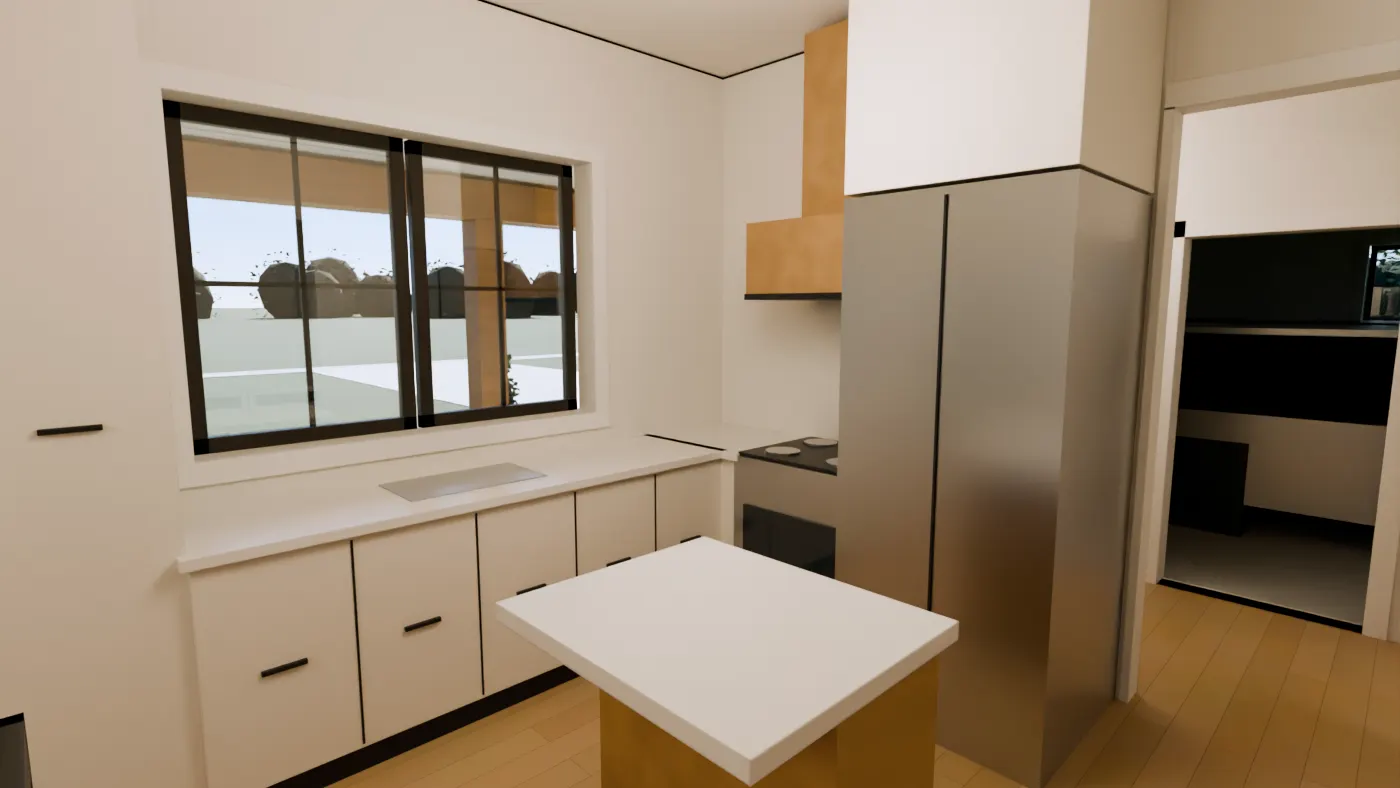
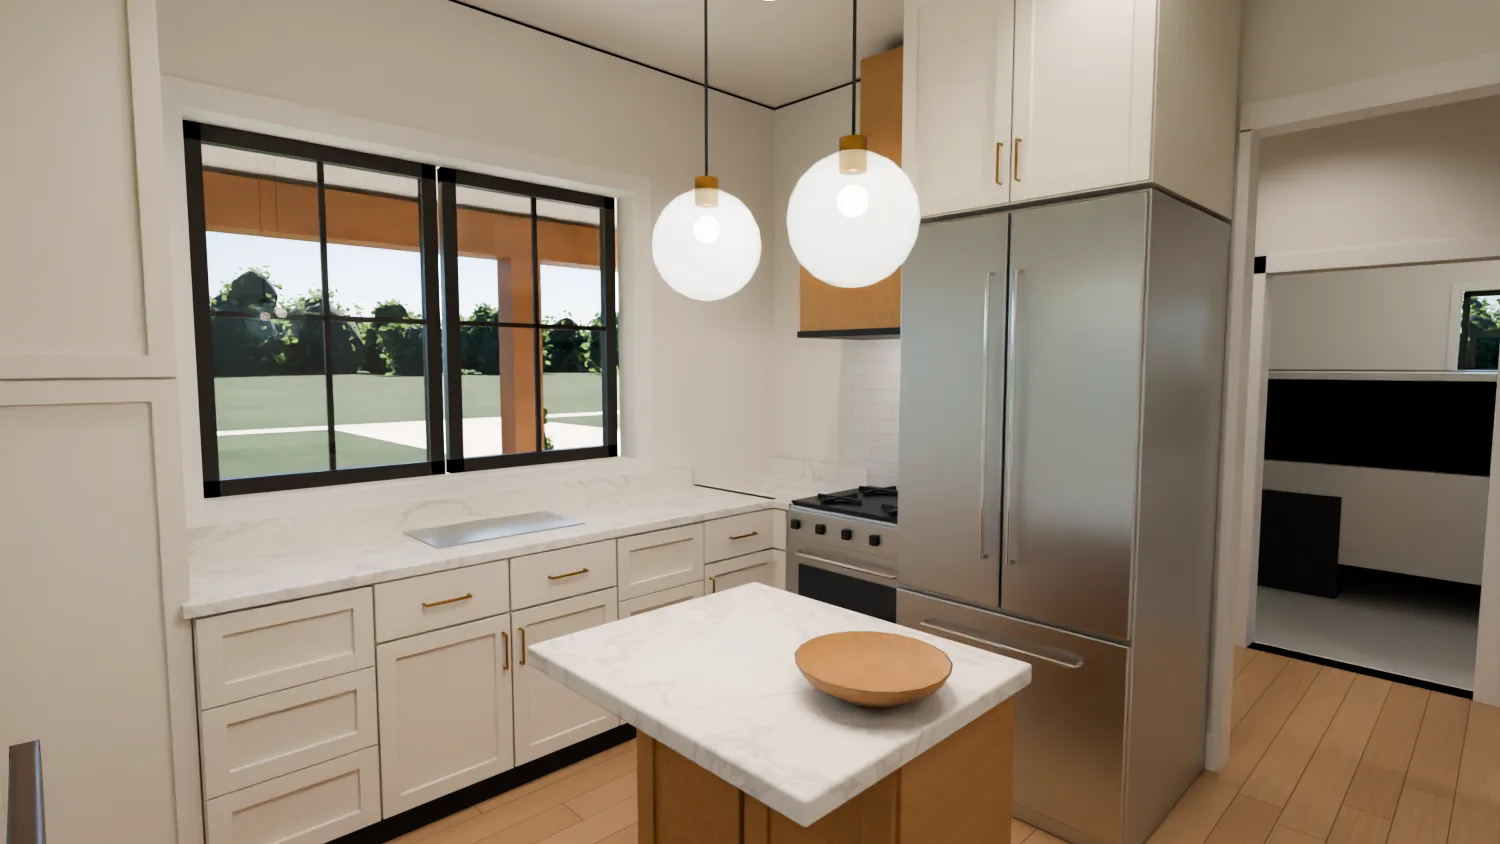
Farmhouse interiors re-rendered with far more detail; dining room, bedroom and bath added
The great room, kitchen and the in-law suite's living room and kitchen are new renderings
of the detailed 3D scenes (rounded and upholstered furniture, shaker cabinets with pulls,
veined stone tops, plank floors with grain, pendants and downlights, trees and lawn outside
the windows). The dining room, primary bedroom and primary bath are new pictures in the
Farmhouse look. The buying page shows them and opens the matching room in 3D.

Claude-Session: https://claude.ai/code/session_01LcUu1yMTHs7qUW5E51HSvp

diff --git a/index.html b/index.html
@@ -327,7 +327,7 @@
 (function () {
   'use strict';
   var VIEWER = 'walkthrough/', SETS = 'plans/';
-  var HAVE = /*HAVE*/{"big_brick":1,"big_country":1,"big_craft":1,"big_farm":1,"big_trans":1,"fp_big2_bsmt_f":1,"fp_big2_bsmt_u":1,"fp_big2_look":1,"fp_big2_main_f":1,"fp_big2_main_s":1,"fp_big2_main_su":1,"fp_big2_upper":1,"fp_big_bsmt_f":1,"fp_big_bsmt_u":1,"fp_big_look":1,"fp_big_main_f":1,"fp_big_main_s":1,"fp_big_main_su":1,"fp_big_upper":1,"fp_half2_bsmt_f":1,"fp_half2_bsmt_u":1,"fp_half2_look":1,"fp_half2_main_f":1,"fp_half2_main_s":1,"fp_half2_main_su":1,"fp_half2_upper":1,"fp_half2_upper_lk0":1,"fp_half_bsmt_f":1,"fp_half_bsmt_u":1,"fp_half_look":1,"fp_half_main_f":1,"fp_half_main_s":1,"fp_half_main_su":1,"fp_half_upper":1,"fp_half_upper_lk0":1,"fp_p14_bsmt_f":1,"fp_p14_bsmt_u":1,"fp_p14_look":1,"fp_p14_main_f":1,"fp_p14_main_s":1,"fp_p14_main_su":1,"fp_p14_upper":1,"fp_p18_bsmt_f":1,"fp_p18_bsmt_u":1,"fp_p18_look":1,"fp_p18_main_f":1,"fp_p18_main_s":1,"fp_p18_main_su":1,"fp_p18_upper":1,"fp_ranch2_bsmt_f":1,"fp_ranch2_bsmt_u":1,"fp_ranch2_look":1,"fp_ranch2_main_f":1,"fp_ranch2_main_f_lk0":1,"fp_ranch2_main_s":1,"fp_ranch2_main_s_lk0":1,"fp_ranch2_main_su":1,"fp_ranch2_main_su_lk0":1,"fp_ranch_bsmt_f":1,"fp_ranch_bsmt_u":1,"fp_ranch_look":1,"fp_ranch_main_f":1,"fp_ranch_main_f_lk0":1,"fp_ranch_main_s":1,"fp_ranch_main_s_lk0":1,"fp_ranch_main_su":1,"fp_ranch_main_su_lk0":1,"fp_small2_bsmt_f":1,"fp_small2_bsmt_u":1,"fp_small2_look":1,"fp_small2_main_f":1,"fp_small2_main_s":1,"fp_small2_main_su":1,"fp_small2_upper":1,"fp_small2_upper_lk0":1,"fp_small_bsmt_f":1,"fp_small_bsmt_u":1,"fp_small_look":1,"fp_small_main_f":1,"fp_small_main_s":1,"fp_small_main_su":1,"fp_small_upper":1,"fp_small_upper_lk0":1,"half_brick":1,"half_country":1,"half_craft":1,"half_farm":1,"half_trans":1,"hero_farm":1,"in_brick_great":1,"in_brick_kit":1,"in_country_great":1,"in_country_kit":1,"in_craft_great":1,"in_craft_kit":1,"in_farm_great":1,"in_farm_kit":1,"in_trans_great":1,"in_trans_kit":1,"opt_big_gs_brick":1,"opt_big_gs_country":1,"opt_big_gs_craft":1,"opt_big_gs_farm":1,"opt_big_gs_trans":1,"opt_big_lk0_brick":1,"opt_big_lk0_country":1,"opt_big_lk0_craft":1,"opt_big_lk0_farm":1,"opt_big_lk0_trans":1,"opt_half_gs_brick":1,"opt_half_gs_country":1,"opt_half_gs_craft":1,"opt_half_gs_farm":1,"opt_half_gs_trans":1,"opt_half_lk0_brick":1,"opt_half_lk0_country":1,"opt_half_lk0_craft":1,"opt_half_lk0_farm":1,"opt_half_lk0_trans":1,"opt_p14_gs_brick":1,"opt_p14_gs_country":1,"opt_p14_gs_craft":1,"opt_p14_gs_farm":1,"opt_p14_gs_trans":1,"opt_p14_lk0_brick":1,"opt_p14_lk0_country":1,"opt_p14_lk0_craft":1,"opt_p14_lk0_farm":1,"opt_p14_lk0_trans":1,"opt_p18_gs_brick":1,"opt_p18_gs_country":1,"opt_p18_gs_craft":1,"opt_p18_gs_farm":1,"opt_p18_gs_trans":1,"opt_p18_lk0_brick":1,"opt_p18_lk0_country":1,"opt_p18_lk0_craft":1,"opt_p18_lk0_farm":1,"opt_p18_lk0_trans":1,"opt_ranch_gs_brick":1,"opt_ranch_gs_country":1,"opt_ranch_gs_craft":1,"opt_ranch_gs_farm":1,"opt_ranch_gs_trans":1,"opt_ranch_lk0_brick":1,"opt_ranch_lk0_country":1,"opt_ranch_lk0_craft":1,"opt_ranch_lk0_farm":1,"opt_ranch_lk0_trans":1,"opt_small_gs_brick":1,"opt_small_gs_country":1,"opt_small_gs_craft":1,"opt_small_gs_farm":1,"opt_small_gs_trans":1,"opt_small_lk0_brick":1,"opt_small_lk0_country":1,"opt_small_lk0_craft":1,"opt_small_lk0_farm":1,"opt_small_lk0_trans":1,"p14_brick":1,"p14_country":1,"p14_craft":1,"p14_farm":1,"p14_trans":1,"p18_brick":1,"p18_country":1,"p18_craft":1,"p18_farm":1,"p18_trans":1,"pair_big_brick":1,"pair_big_country":1,"pair_big_craft":1,"pair_big_farm":1,"pair_big_trans":1,"pair_half_brick":1,"pair_half_country":1,"pair_half_craft":1,"pair_half_farm":1,"pair_half_trans":1,"pair_p14_brick":1,"pair_p14_country":1,"pair_p14_craft":1,"pair_p14_farm":1,"pair_p14_trans":1,"pair_p18_brick":1,"pair_p18_country":1,"pair_p18_craft":1,"pair_p18_farm":1,"pair_p18_trans":1,"pair_ranch_brick":1,"pair_ranch_country":1,"pair_ranch_craft":1,"pair_ranch_farm":1,"pair_ranch_trans":1,"pair_small_brick":1,"pair_small_country":1,"pair_small_craft":1,"pair_small_farm":1,"pair_small_trans":1,"ranch_brick":1,"ranch_country":1,"ranch_craft":1,"ranch_farm":1,"ranch_trans":1,"small_brick":1,"small_country":1,"small_craft":1,"small_farm":1,"small_trans":1,"suite_bed":1,"suite_brick":1,"suite_country":1,"suite_craft":1,"suite_farm":1,"suite_kit":1,"suite_live":1,"suite_trans":1}/*END*/;                 // the renderings that ship with this version of the page
+  var HAVE = /*HAVE*/{"big_brick":1,"big_country":1,"big_craft":1,"big_farm":1,"big_trans":1,"fp_big2_bsmt_f":1,"fp_big2_bsmt_u":1,"fp_big2_look":1,"fp_big2_main_f":1,"fp_big2_main_s":1,"fp_big2_main_su":1,"fp_big2_upper":1,"fp_big_bsmt_f":1,"fp_big_bsmt_u":1,"fp_big_look":1,"fp_big_main_f":1,"fp_big_main_s":1,"fp_big_main_su":1,"fp_big_upper":1,"fp_half2_bsmt_f":1,"fp_half2_bsmt_u":1,"fp_half2_look":1,"fp_half2_main_f":1,"fp_half2_main_s":1,"fp_half2_main_su":1,"fp_half2_upper":1,"fp_half2_upper_lk0":1,"fp_half_bsmt_f":1,"fp_half_bsmt_u":1,"fp_half_look":1,"fp_half_main_f":1,"fp_half_main_s":1,"fp_half_main_su":1,"fp_half_upper":1,"fp_half_upper_lk0":1,"fp_p14_bsmt_f":1,"fp_p14_bsmt_u":1,"fp_p14_look":1,"fp_p14_main_f":1,"fp_p14_main_s":1,"fp_p14_main_su":1,"fp_p14_upper":1,"fp_p18_bsmt_f":1,"fp_p18_bsmt_u":1,"fp_p18_look":1,"fp_p18_main_f":1,"fp_p18_main_s":1,"fp_p18_main_su":1,"fp_p18_upper":1,"fp_ranch2_bsmt_f":1,"fp_ranch2_bsmt_u":1,"fp_ranch2_look":1,"fp_ranch2_main_f":1,"fp_ranch2_main_f_lk0":1,"fp_ranch2_main_s":1,"fp_ranch2_main_s_lk0":1,"fp_ranch2_main_su":1,"fp_ranch2_main_su_lk0":1,"fp_ranch_bsmt_f":1,"fp_ranch_bsmt_u":1,"fp_ranch_look":1,"fp_ranch_main_f":1,"fp_ranch_main_f_lk0":1,"fp_ranch_main_s":1,"fp_ranch_main_s_lk0":1,"fp_ranch_main_su":1,"fp_ranch_main_su_lk0":1,"fp_small2_bsmt_f":1,"fp_small2_bsmt_u":1,"fp_small2_look":1,"fp_small2_main_f":1,"fp_small2_main_s":1,"fp_small2_main_su":1,"fp_small2_upper":1,"fp_small2_upper_lk0":1,"fp_small_bsmt_f":1,"fp_small_bsmt_u":1,"fp_small_look":1,"fp_small_main_f":1,"fp_small_main_s":1,"fp_small_main_su":1,"fp_small_upper":1,"fp_small_upper_lk0":1,"half_brick":1,"half_country":1,"half_craft":1,"half_farm":1,"half_trans":1,"hero_farm":1,"in_brick_great":1,"in_brick_kit":1,"in_country_great":1,"in_country_kit":1,"in_craft_great":1,"in_craft_kit":1,"in_farm_bath":1,"in_farm_bed":1,"in_farm_dine":1,"in_farm_great":1,"in_farm_kit":1,"in_trans_great":1,"in_trans_kit":1,"opt_big_gs_brick":1,"opt_big_gs_country":1,"opt_big_gs_craft":1,"opt_big_gs_farm":1,"opt_big_gs_trans":1,"opt_big_lk0_brick":1,"opt_big_lk0_country":1,"opt_big_lk0_craft":1,"opt_big_lk0_farm":1,"opt_big_lk0_trans":1,"opt_half_gs_brick":1,"opt_half_gs_country":1,"opt_half_gs_craft":1,"opt_half_gs_farm":1,"opt_half_gs_trans":1,"opt_half_lk0_brick":1,"opt_half_lk0_country":1,"opt_half_lk0_craft":1,"opt_half_lk0_farm":1,"opt_half_lk0_trans":1,"opt_p14_gs_brick":1,"opt_p14_gs_country":1,"opt_p14_gs_craft":1,"opt_p14_gs_farm":1,"opt_p14_gs_trans":1,"opt_p14_lk0_brick":1,"opt_p14_lk0_country":1,"opt_p14_lk0_craft":1,"opt_p14_lk0_farm":1,"opt_p14_lk0_trans":1,"opt_p18_gs_brick":1,"opt_p18_gs_country":1,"opt_p18_gs_craft":1,"opt_p18_gs_farm":1,"opt_p18_gs_trans":1,"opt_p18_lk0_brick":1,"opt_p18_lk0_country":1,"opt_p18_lk0_craft":1,"opt_p18_lk0_farm":1,"opt_p18_lk0_trans":1,"opt_ranch_gs_brick":1,"opt_ranch_gs_country":1,"opt_ranch_gs_craft":1,"opt_ranch_gs_farm":1,"opt_ranch_gs_trans":1,"opt_ranch_lk0_brick":1,"opt_ranch_lk0_country":1,"opt_ranch_lk0_craft":1,"opt_ranch_lk0_farm":1,"opt_ranch_lk0_trans":1,"opt_small_gs_brick":1,"opt_small_gs_country":1,"opt_small_gs_craft":1,"opt_small_gs_farm":1,"opt_small_gs_trans":1,"opt_small_lk0_brick":1,"opt_small_lk0_country":1,"opt_small_lk0_craft":1,"opt_small_lk0_farm":1,"opt_small_lk0_trans":1,"p14_brick":1,"p14_country":1,"p14_craft":1,"p14_farm":1,"p14_trans":1,"p18_brick":1,"p18_country":1,"p18_craft":1,"p18_farm":1,"p18_trans":1,"pair_big_brick":1,"pair_big_country":1,"pair_big_craft":1,"pair_big_farm":1,"pair_big_trans":1,"pair_half_brick":1,"pair_half_country":1,"pair_half_craft":1,"pair_half_farm":1,"pair_half_trans":1,"pair_p14_brick":1,"pair_p14_country":1,"pair_p14_craft":1,"pair_p14_farm":1,"pair_p14_trans":1,"pair_p18_brick":1,"pair_p18_country":1,"pair_p18_craft":1,"pair_p18_farm":1,"pair_p18_trans":1,"pair_ranch_brick":1,"pair_ranch_country":1,"pair_ranch_craft":1,"pair_ranch_farm":1,"pair_ranch_trans":1,"pair_small_brick":1,"pair_small_country":1,"pair_small_craft":1,"pair_small_farm":1,"pair_small_trans":1,"ranch_brick":1,"ranch_country":1,"ranch_craft":1,"ranch_farm":1,"ranch_trans":1,"small_brick":1,"small_country":1,"small_craft":1,"small_farm":1,"small_trans":1,"suite_bed":1,"suite_brick":1,"suite_country":1,"suite_craft":1,"suite_farm":1,"suite_kit":1,"suite_live":1,"suite_trans":1}/*END*/;                 // the renderings that ship with this version of the page
   function have(src) { return !!HAVE[src.slice(4, -4)]; }      // a picture is named 'img/NAME.jpg' in the code; the files are NAME.webp (full), NAME_m.webp (medium), NAME_t.webp (thumb)
   function pic(src, v) { return 'img/' + src.slice(4, -4) + (v ? '_' + v : '') + '.webp'; }
   function small() { return (window.innerWidth || 1200) < 900; }
@@ -443,7 +443,9 @@
     if (isMap) { drawMap(); $('key').textContent = 'Metro St. Louis, drawn as a schematic. The four communities are concepts. Tap one.'; return; }
     if (isLot) { drawSite(); return; }
     var shots = [['ext', 'Outside', heroSrc(h.k, lk.k), h.name + ' in the ' + lk.name + ' look, from the street'],
-                 ['great', 'Great room', 'img/in_' + lk.k + '_great.jpg', 'Great room in the ' + lk.name + ' look'], ['kit', 'Kitchen', 'img/in_' + lk.k + '_kit.jpg', 'Kitchen in the ' + lk.name + ' look']];
+                 ['great', 'Great room', 'img/in_' + lk.k + '_great.jpg', 'Great room in the ' + lk.name + ' look'], ['kit', 'Kitchen', 'img/in_' + lk.k + '_kit.jpg', 'Kitchen in the ' + lk.name + ' look'],
+                 ['dine', 'Dining', 'img/in_' + lk.k + '_dine.jpg', 'Dining room in the ' + lk.name + ' look'], ['bed', 'Bedroom', 'img/in_' + lk.k + '_bed.jpg', 'Primary bedroom in the ' + lk.name + ' look'],
+                 ['bath', 'Bath', 'img/in_' + lk.k + '_bath.jpg', 'Primary bath in the ' + lk.name + ' look']];
     var m = h.k + (v2(h) ? '2' : ''), side = sideEntry(h), two = h.k !== 'ranch', low = h.topName.toLowerCase(); warm(m);
     if (S.suite) shots.push(['pair', 'With the suite', 'img/pair_' + h.k + '_' + lk.k + '.jpg', h.name + ' with the garage court, the second garage at the back of it and the in-law suite behind']);
     else if (side) shots.push(['gs', 'Side entry', 'img/opt_' + h.k + '_gs_' + lk.k + '.jpg', h.name + ' with the garage entered from the side, off a court']);
@@ -463,7 +465,7 @@
       th.appendChild(el('button', { type: 'button', 'aria-pressed': s[0] === S.shot ? 'true' : 'false', 'aria-label': (s[0] === S.shot ? 'Open in 3D: ' : 'Show: ') + s[1], on: { click: function () { if (S.shot === s[0]) { openStage3d(); return; } S.shot = s[0]; stage(); } } }, [el('img', { src: pic(s[2], 't'), alt: '', loading: 'lazy', decoding: 'async' }), el('span', { text: s[1] })]));
       if (s[0] === S.shot) {
         show(s[2], s[3]);
-        $('tag').textContent = s[0] === 'ext' ? (fallback ? 'Shown in Modern Farmhouse; the rendering in this look is not ready yet' : 'Rendering of the 3D model') + (S.top ? '' : ', shown with the ' + h.topName.toLowerCase()) + (h.gs && S.gar === 's' ? ', shown with the front-entry garage' : '')
+        $('tag').textContent = (s[0] === 'dine' || s[0] === 'bed' || s[0] === 'bath' || s[0] === 'great' || s[0] === 'kit') ? 'Rendering of the 3D model, shown in the 3,928 plan' : s[0] === 'ext' ? (fallback ? 'Shown in Modern Farmhouse; the rendering in this look is not ready yet' : 'Rendering of the 3D model') + (S.top ? '' : ', shown with the ' + h.topName.toLowerCase()) + (h.gs && S.gar === 's' ? ', shown with the front-entry garage' : '')
           : (s[0] === 'great' || s[0] === 'kit') ? 'Interior package for this look, shown in the 3,928 Plan' : s[0] === 'suite' ? 'The suite and its garage as one building' : (s[0] === 'pair' || s[0] === 'gs' || s[0] === 'lk0') ? 'View of the 3D model' + (s[0] !== 'lk0' && !S.top ? ', shown with the ' + h.topName.toLowerCase() : '') : s[0].slice(0, 2) === 'fp' ? 'Floor plan from the 3D model, as configured' + (v2(h) ? ', Upgraded' : '') : s[3] + ', Modern Farmhouse interior';
       }
     });
@@ -645,6 +647,7 @@
   function stageHash(key) {                         // the 3D view behind each picture of the home being configured
     var h = H(), o = { st: S.look, lk: S.top ? 1 : 0, g: sideEntry(h) ? 's' : 'f', b: S.bsmt, su: S.suite ? 1 : 0 };
     if (key === 'great') { o.walk = 1; o.room = 'Living room'; } else if (key === 'kit') { o.walk = 1; o.room = 'Kitchen'; }
+    else if (key === 'dine') { o.walk = 1; o.room = 'Dining room'; } else if (key === 'bed') { o.walk = 1; o.room = 'Primary bedroom'; } else if (key === 'bath') { o.walk = 1; o.room = 'Primary bath'; }
     else if (key === 'gs') { o.lv = 'exterior'; o.v = 'garage'; } else if (key === 'fpm') o.lv = 'main'; else if (key === 'fpu') o.lv = 'upper'; else if (key === 'fpl') o.lv = 'lookout'; else if (key === 'fpb') o.lv = 'basement';
     else if (key === 'suite') { o.model = 'suite'; o.lv = 'exterior'; } else if (key === 'suitein') { o.model = 'suite'; o.walk = 1; o.room = 'Living room'; }
     else if (key === 'suitekit') { o.model = 'suite'; o.walk = 1; o.room = 'Kitchen'; } else if (key === 'suitebed') { o.model = 'suite'; o.walk = 1; o.room = 'Bedroom'; }
